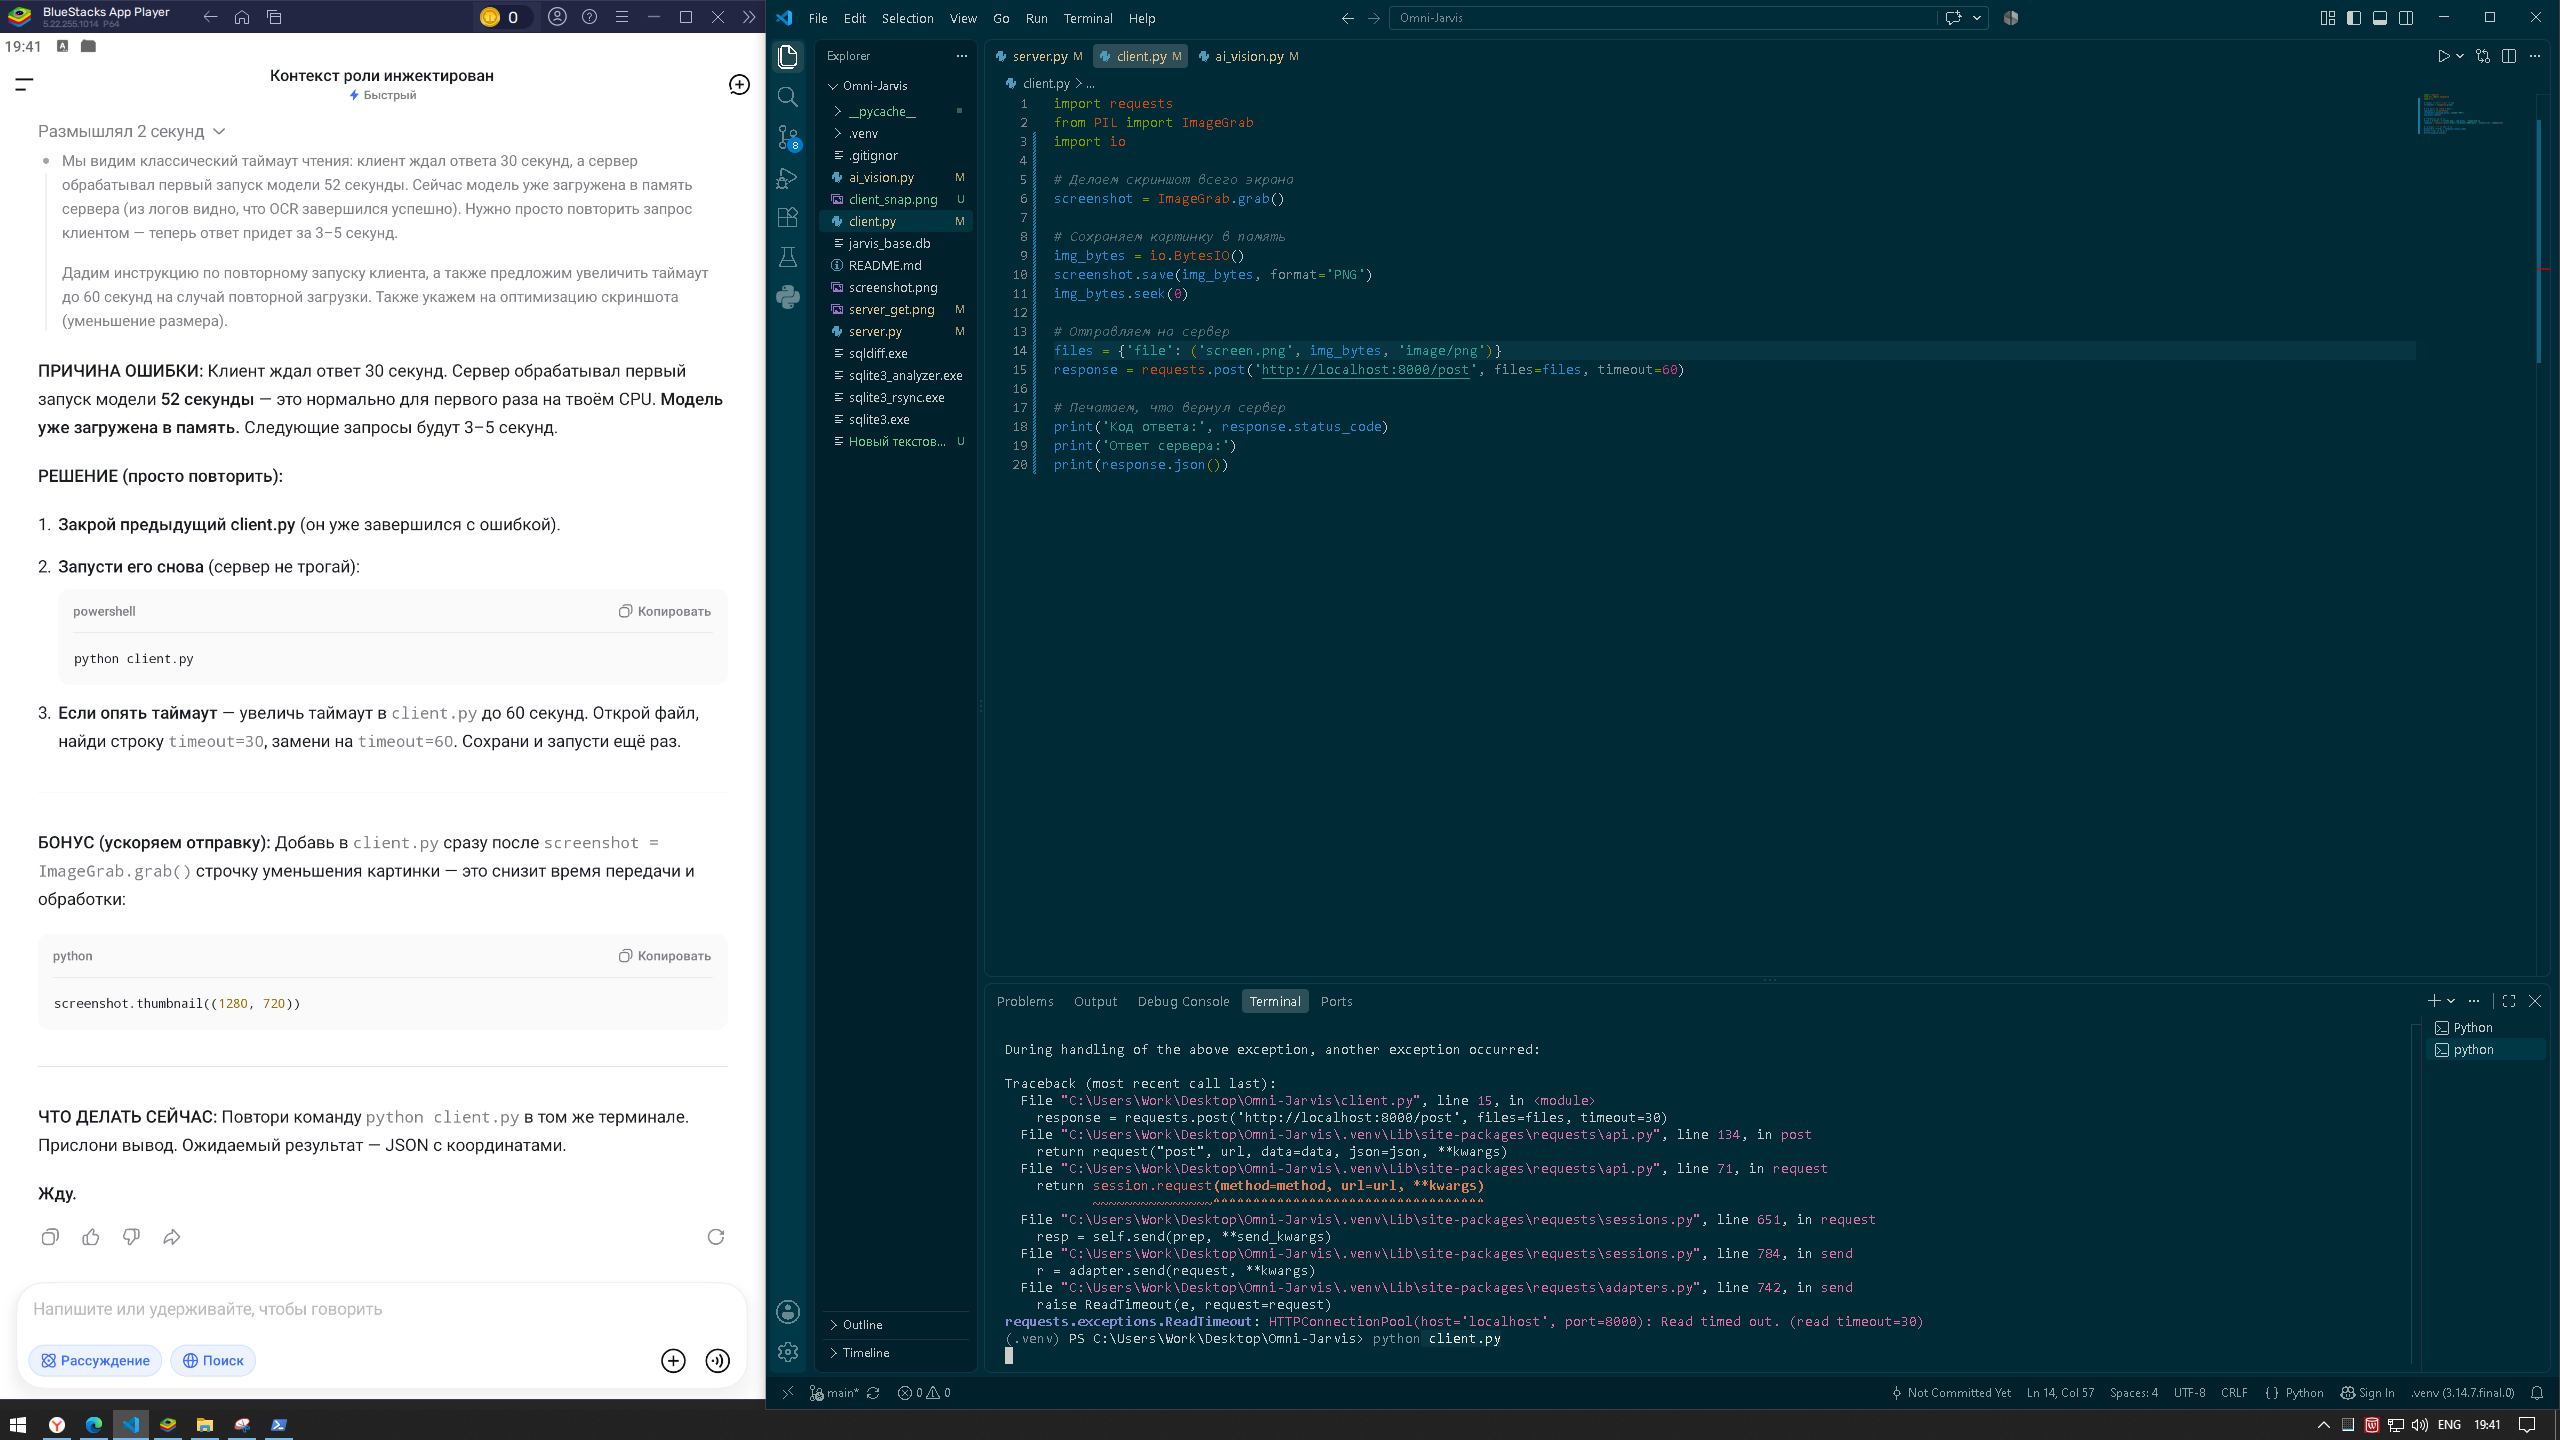
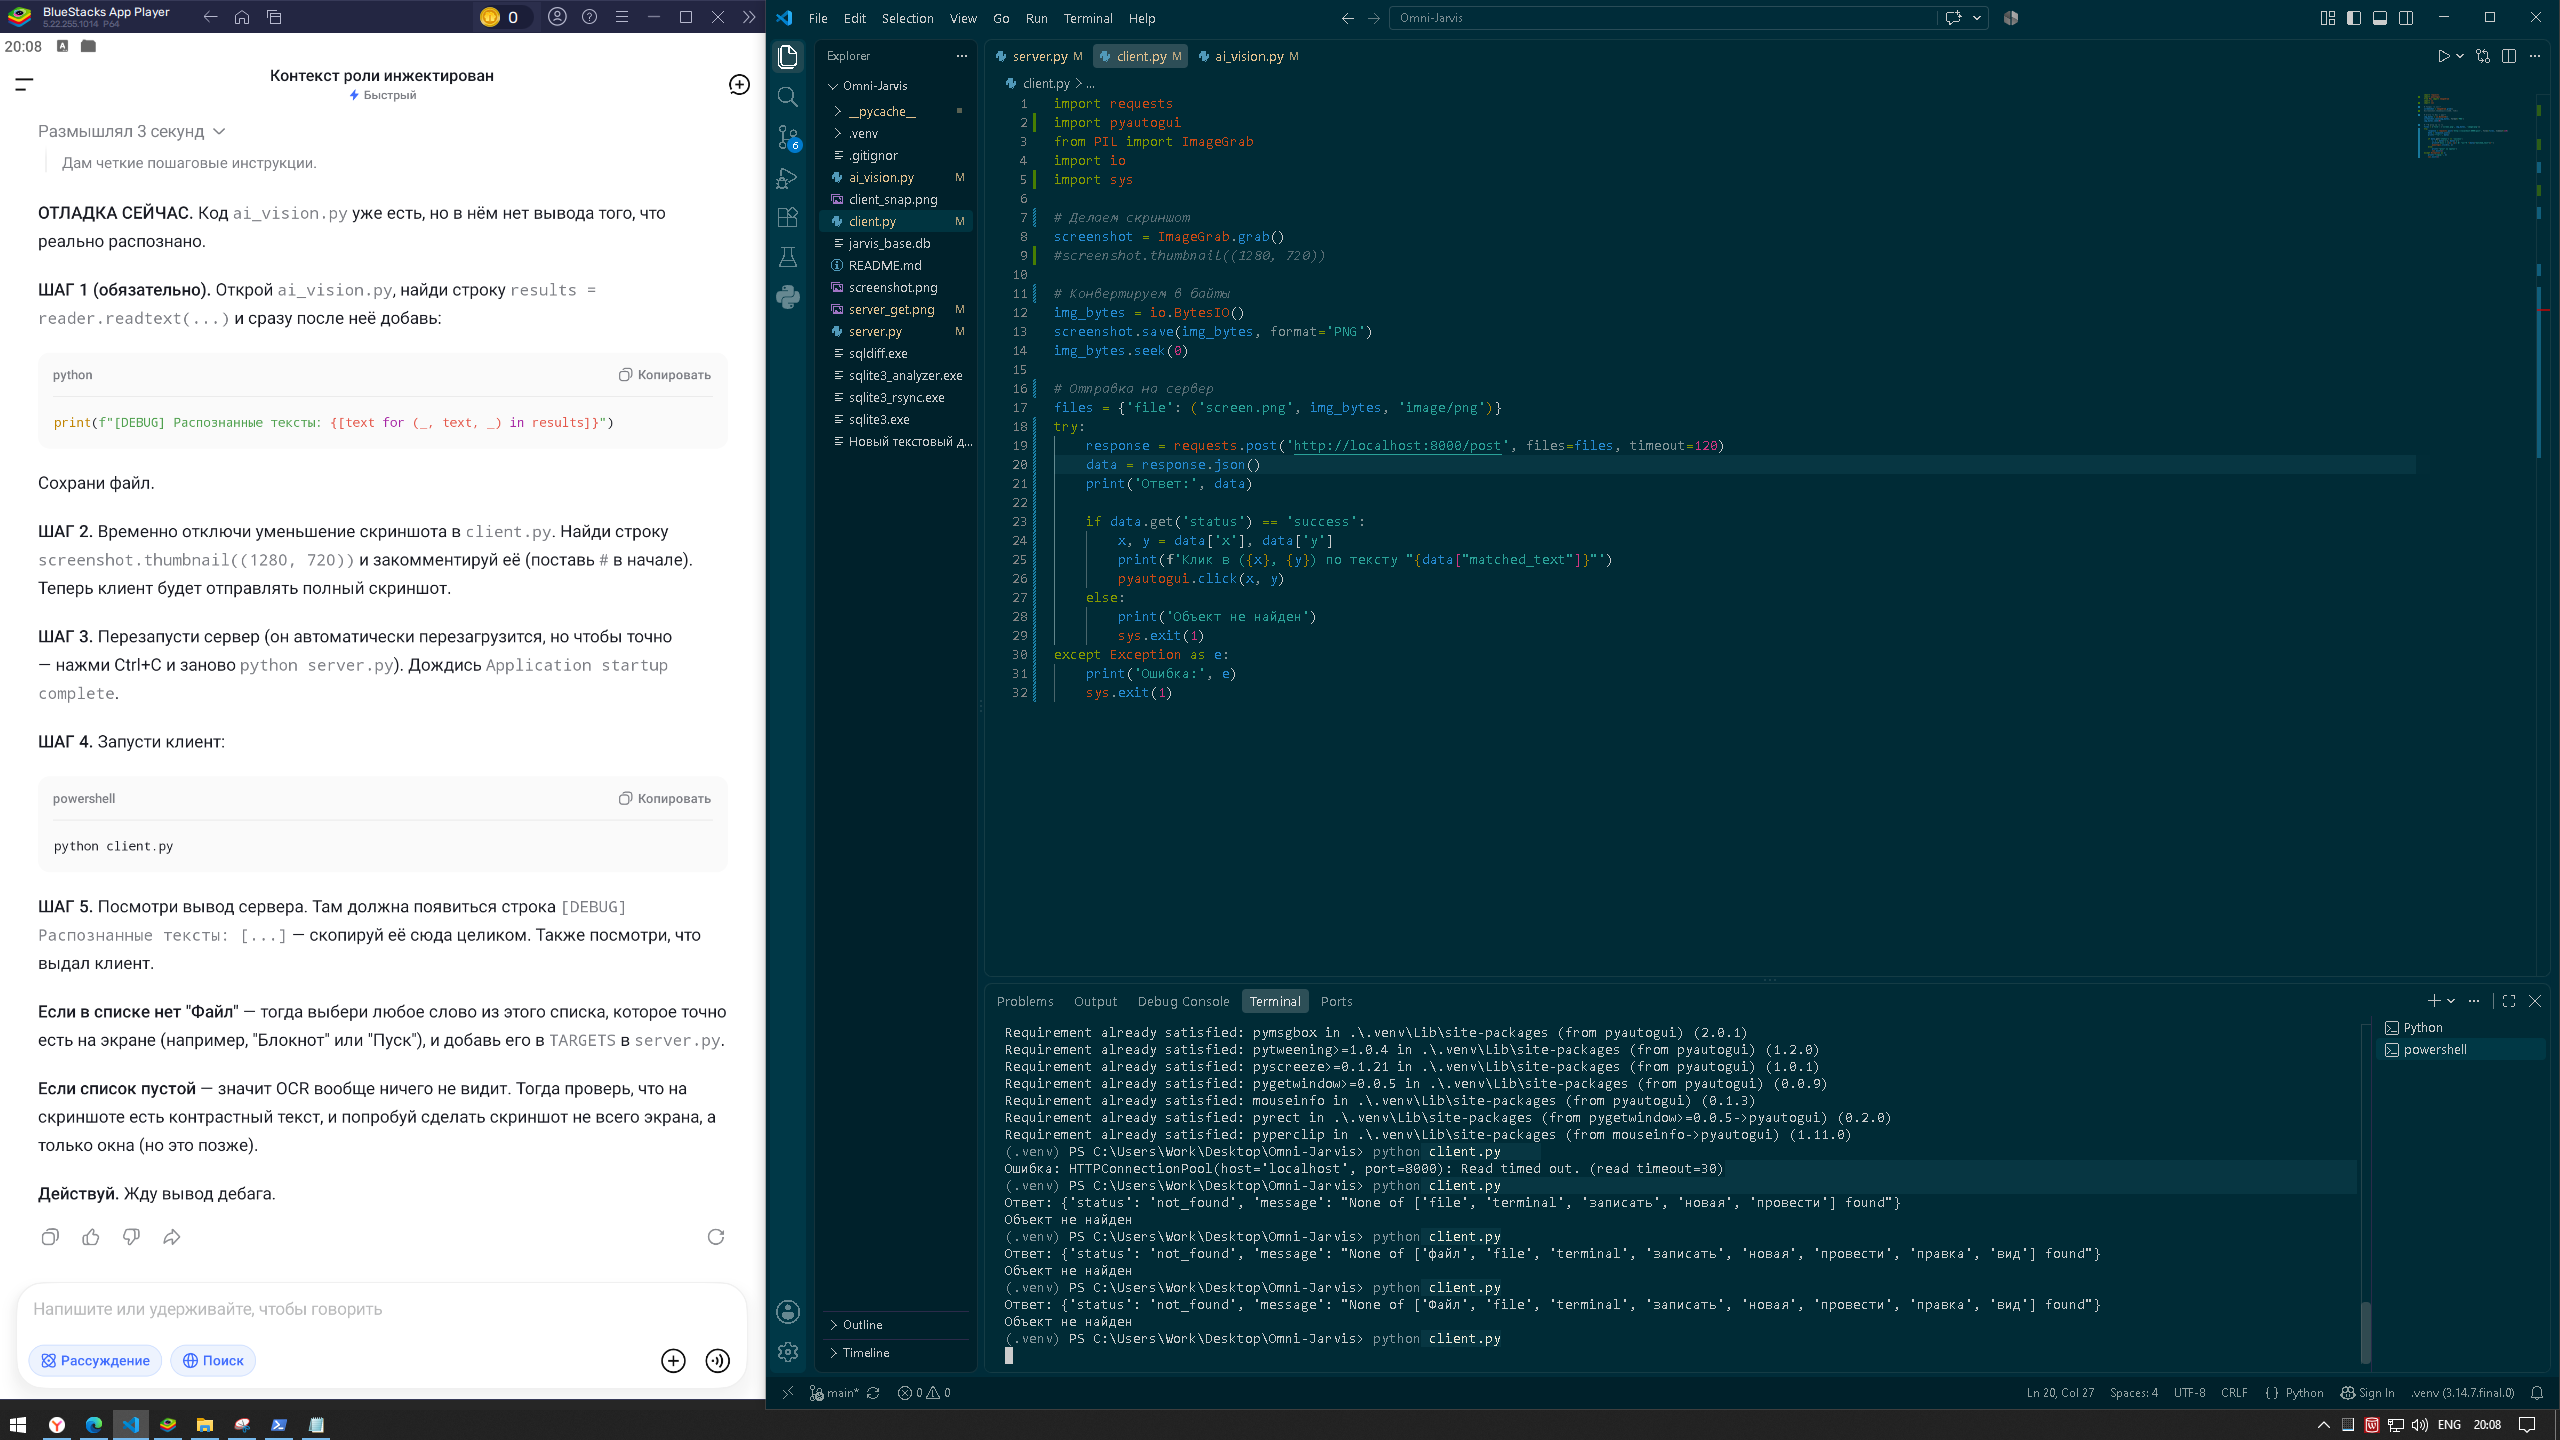
Блок 5.1: клик по меню File через OCR + pyautogui (успешно)

diff --git a/client.py b/client.py
@@ -1,20 +1,32 @@
 import requests
+import pyautogui
 from PIL import ImageGrab
 import io
+import sys
 
-# Делаем скриншот всего экрана
+# Делаем скриншот
 screenshot = ImageGrab.grab()
+#screenshot.thumbnail((1280, 720))
 
-# Сохраняем картинку в память
+# Конвертируем в байты
 img_bytes = io.BytesIO()
 screenshot.save(img_bytes, format='PNG')
 img_bytes.seek(0)
 
-# Отправляем на сервер
+# Отправка на сервер
 files = {'file': ('screen.png', img_bytes, 'image/png')}
-response = requests.post('http://localhost:8000/post', files=files, timeout=60)
-
-# Печатаем, что вернул сервер
-print('Код ответа:', response.status_code)
-print('Ответ сервера:')
-print(response.json())
+try:
+    response = requests.post('http://localhost:8000/post', files=files, timeout=120)
+    data = response.json()
+    print('Ответ:', data)
+    
+    if data.get('status') == 'success':
+        x, y = data['x'], data['y']
+        print(f'Клик в ({x}, {y}) по тексту "{data["matched_text"]}"')
+        pyautogui.click(x, y)
+    else:
+        print('Объект не найден')
+        sys.exit(1)
+except Exception as e:
+    print('Ошибка:', e)
+    sys.exit(1)

diff --git a/server.py b/server.py
@@ -11,7 +11,7 @@ from ai_vision import find_text_center
 app = FastAPI(title="Omni-Jarvis Vision Server")
 
 # Конфиг: список целей для поиска. Расширишь под кнопки 1С (например, "Новый", "Записать", "Terminal")
-TARGETS = ["file", "terminal", "записать", "новая", "провести"] 
+TARGETS = ["Файл", "file", "terminal", "записать", "новая", "провести", "правка", "вид"]
 
 # Папка для временных файлов (рабочая директория)
 TEMP_IMAGE = "server_get.png"

diff --git a/ai_vision.py b/ai_vision.py
@@ -20,7 +20,7 @@ def find_text_center(image_path: str, target_strings: list) -> dict:
     reader = get_reader()
     # detail=1 для получения bounding box'ов
     results = reader.readtext(image_path, detail=1, paragraph=False)
-    
+    print(f"[DEBUG] Распознанные тексты: {[text for (_, text, _) in results]}")
     for (bbox, text, confidence) in results:
         # Приводим к нижнему регистру для сравнения (1С любит капслок)
         clean_text = text.strip().lower()
